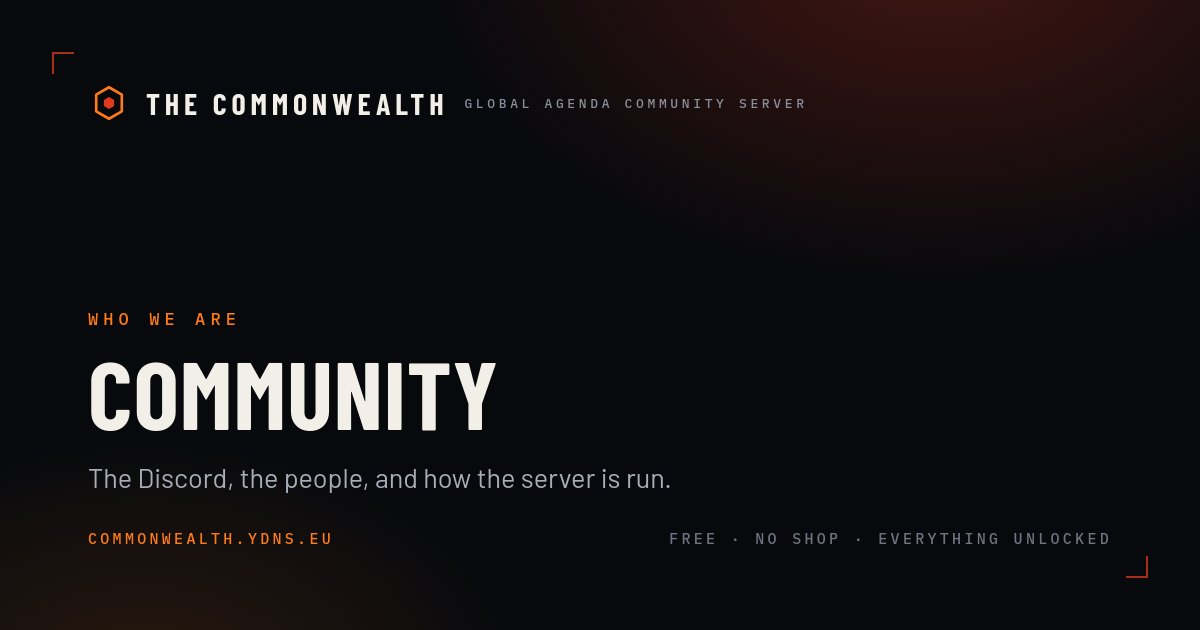
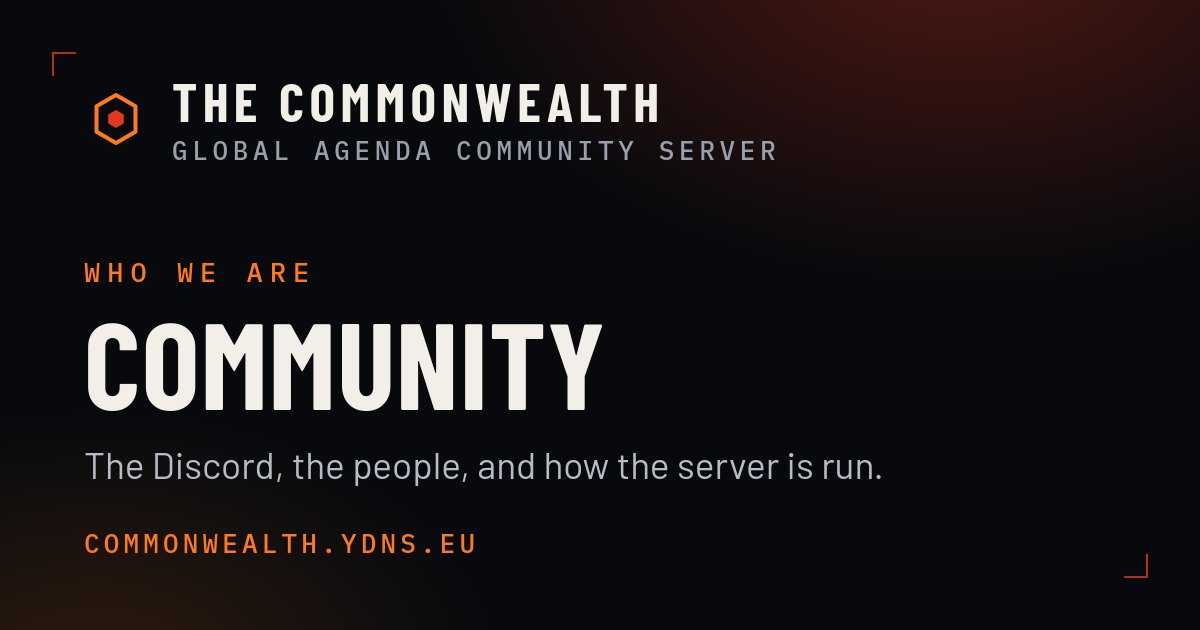
Set the Open Graph cards for the thumbnail, not for the file
Discord renders a card about 400px wide — a third of its size — and the first set
was drawn for a full-size viewing: the brand, the slogan and the small print all
arrived as grey mush in an actual embed.

- The wordmark goes to 54px and the slogan to 26px, on separate lines. Side by
  side they were both too small to read at a third scale.
- Everything else is sized for the thumbnail too: kicker 27px, sentence 37px,
  host 26px. Nothing in a card is below 25px any more.
- The right-hand footer item is gone. It said "free to play" under a kicker that
  usually says the same thing, and the bottom-right corner tick already balances
  the composition.
- The frame spaces brand and body apart instead of relying on an auto margin, so
  the tallest cards (a two-line title) no longer crowd the brand.

`og.jpg` is regenerated from the home card, so the fallback matches.

The cards also get a new URL: `?v=2`. Unfurlers cache an image by its address —
Discord keeps showing whatever it fetched first — so a redesign at the same path
would be invisible to every link already shared.

diff --git a/web/src/lib/site.ts b/web/src/lib/site.ts
@@ -71,6 +71,15 @@ export function breadcrumbSchema(trail: { name: string; path: string }[]) {
  */
 export const OG_IMAGE = '/og.jpg';
 
+/**
+ * Bumped whenever the cards are re-rendered.
+ *
+ * Unfurlers cache the image by its URL — Discord in particular will keep showing
+ * the card it first fetched — so a new design at the same path is invisible to
+ * every link already shared. The query string makes each set a new URL.
+ */
+const OG_CARD_VERSION = 2;
+
 const OG_CARDS: Record<string, string> = {
 	'/': '/og/home.jpg',
 	'/play': '/og/play.jpg',
@@ -88,7 +97,7 @@ const OG_CARDS: Record<string, string> = {
 
 /** The card for a pathname, matching on the first segment (`/guides/12-x` → guides). */
 export function ogImageFor(pathname: string): string {
-	if (OG_CARDS[pathname]) return OG_CARDS[pathname];
-	const section = '/' + pathname.split('/').filter(Boolean)[0];
-	return OG_CARDS[section] ?? OG_IMAGE;
+	const card =
+		OG_CARDS[pathname] ?? OG_CARDS['/' + pathname.split('/').filter(Boolean)[0]] ?? OG_IMAGE;
+	return `${card}?v=${OG_CARD_VERSION}`;
 }
